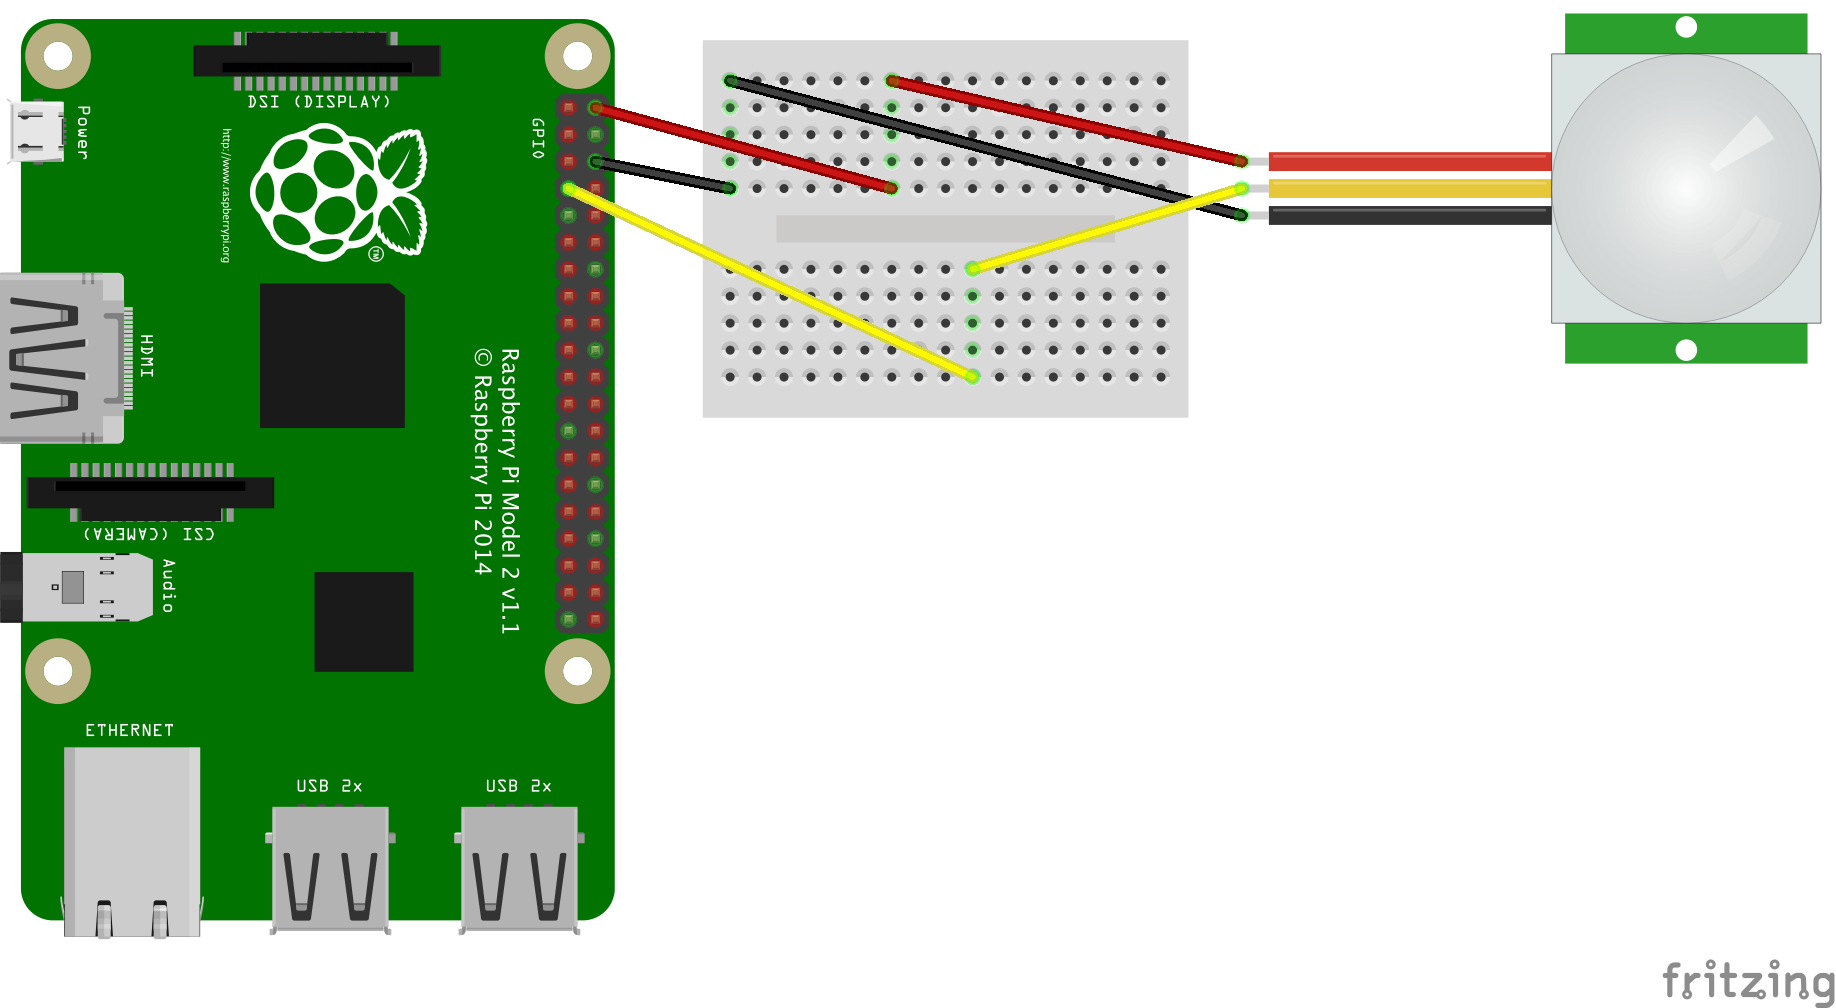
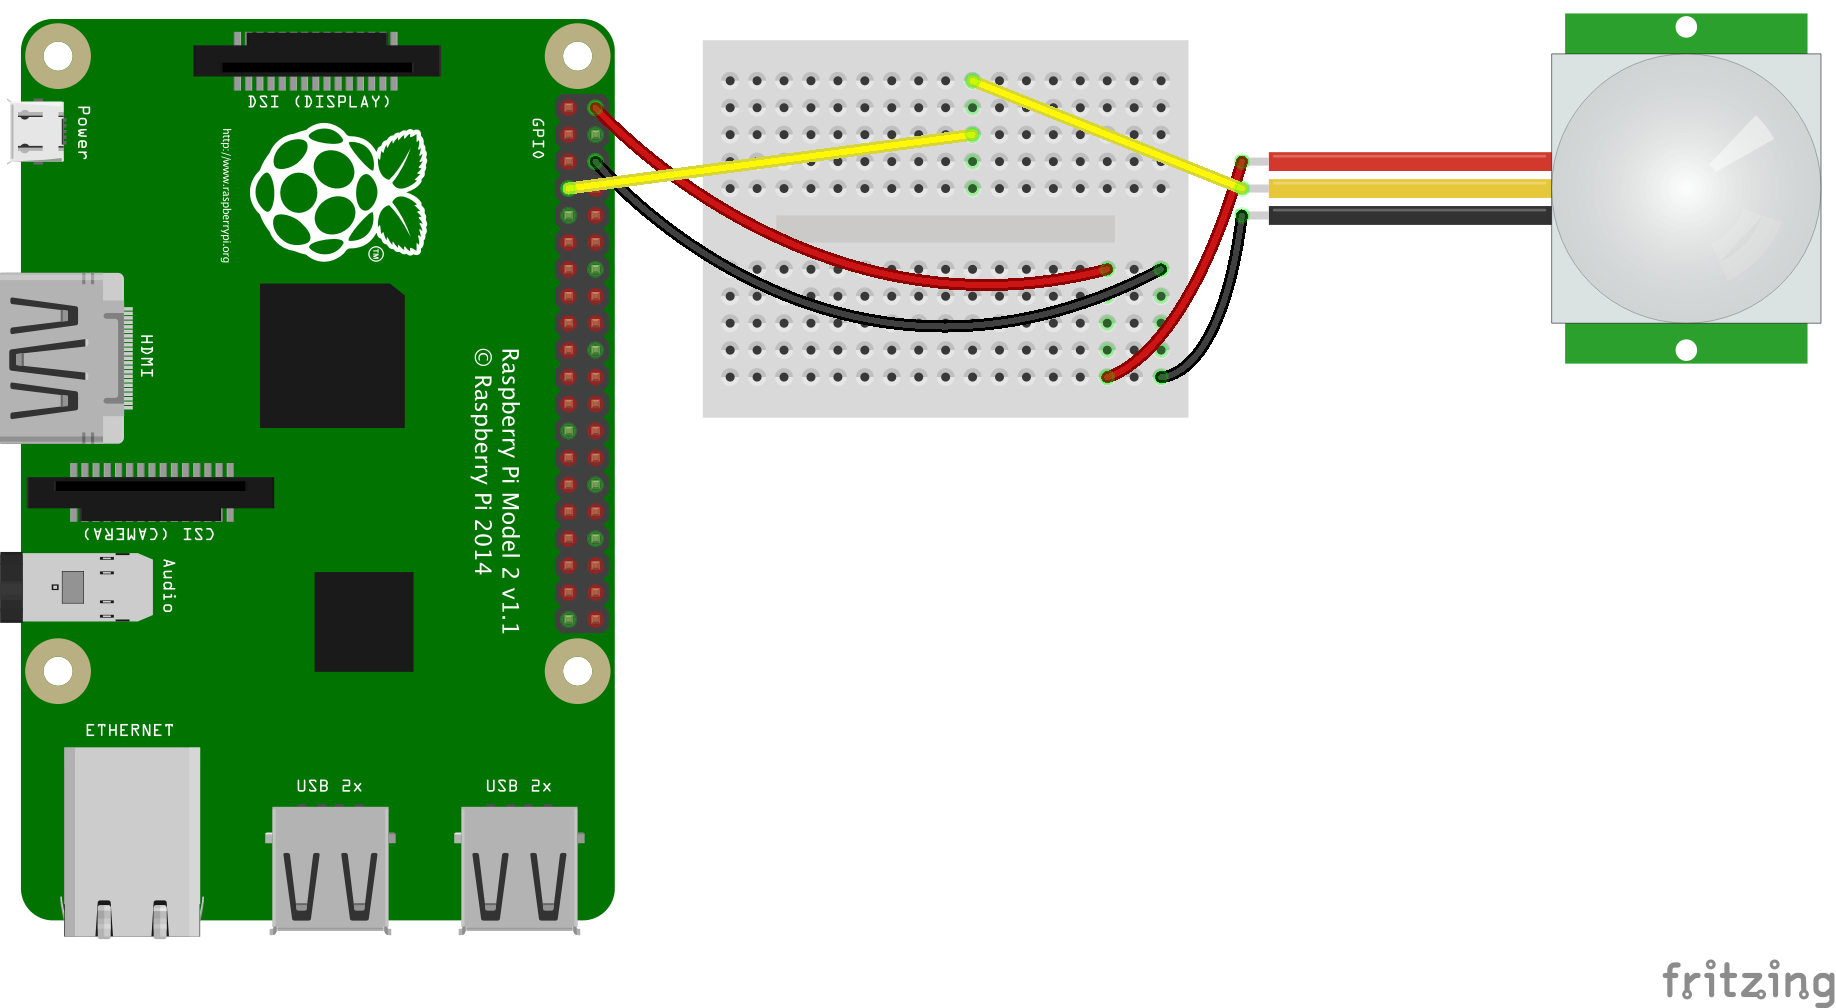
add a new diagram of mini breadboard

Changed region(s): [[0.3105, 0.0615, 0.683, 0.3998]]

diff --git a/projects-python/motion-led/README.md b/projects-python/motion-led/README.md
@@ -12,18 +12,18 @@ The LED is used as a visual indicator of the motion sensor: when a motion is det
 - LED (1.9 - 3.2V)
 - Resistor (~200Ω)
 - Breadboard
-- 6x M-to-F jumper wires, 3 colors with 2 of each
+- 7x M-to-F jumper wires, 3 colors with 2 of each, and 1 extra color
 
 
 ### Assemble the Circuit
 
 Addition to the circuit you have wired a PIR sensor, you connect a LED output to another GPIO (We are using GPIO-17 / Pin 11 for the diagram and the code) with an appropriate resistor. We are using 200Ω to be safe. (also, we have a lot of them for everybody!)
 
-400-pin:
+Circuit on Mini breadboard:
 
- ![image](../../images/PIR-LED/fritzing-pir-led-400.png)
+ ![image](../../images/PIR-LED/fritzing-pir-led-mini.png)
  
- Mini circuit TBD
+[If you are using a 400-pin, the circuit should look something like this.](../../images/PIR-LED/fritzing-pir-led-400.png)
 
 
 ## Running the program
